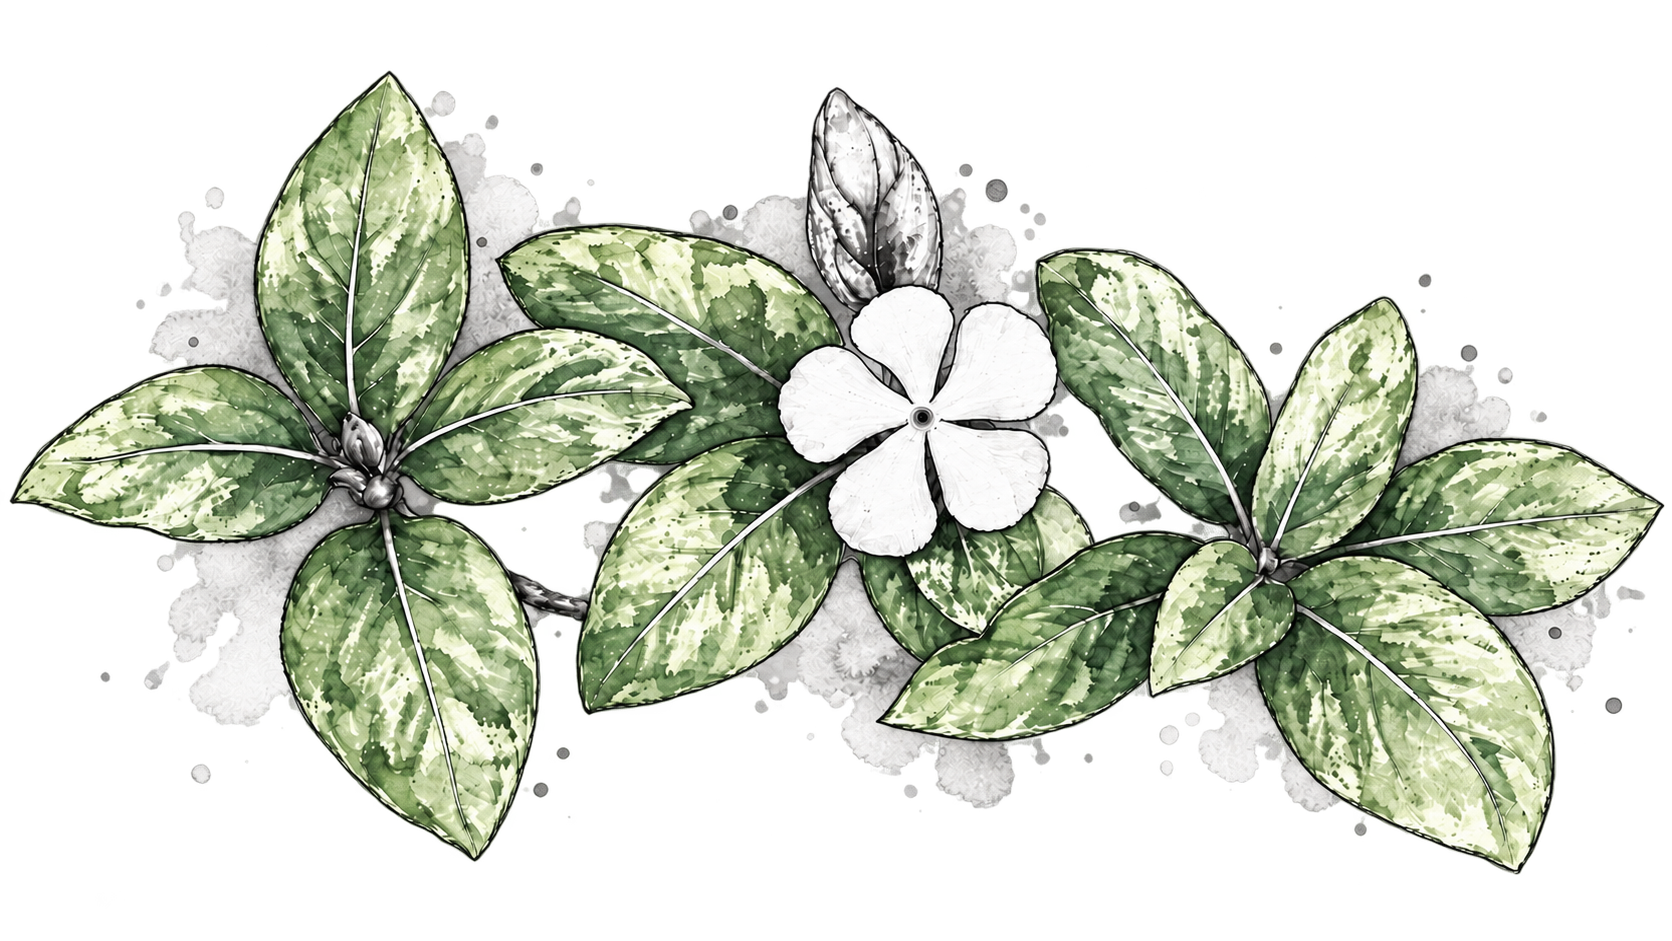
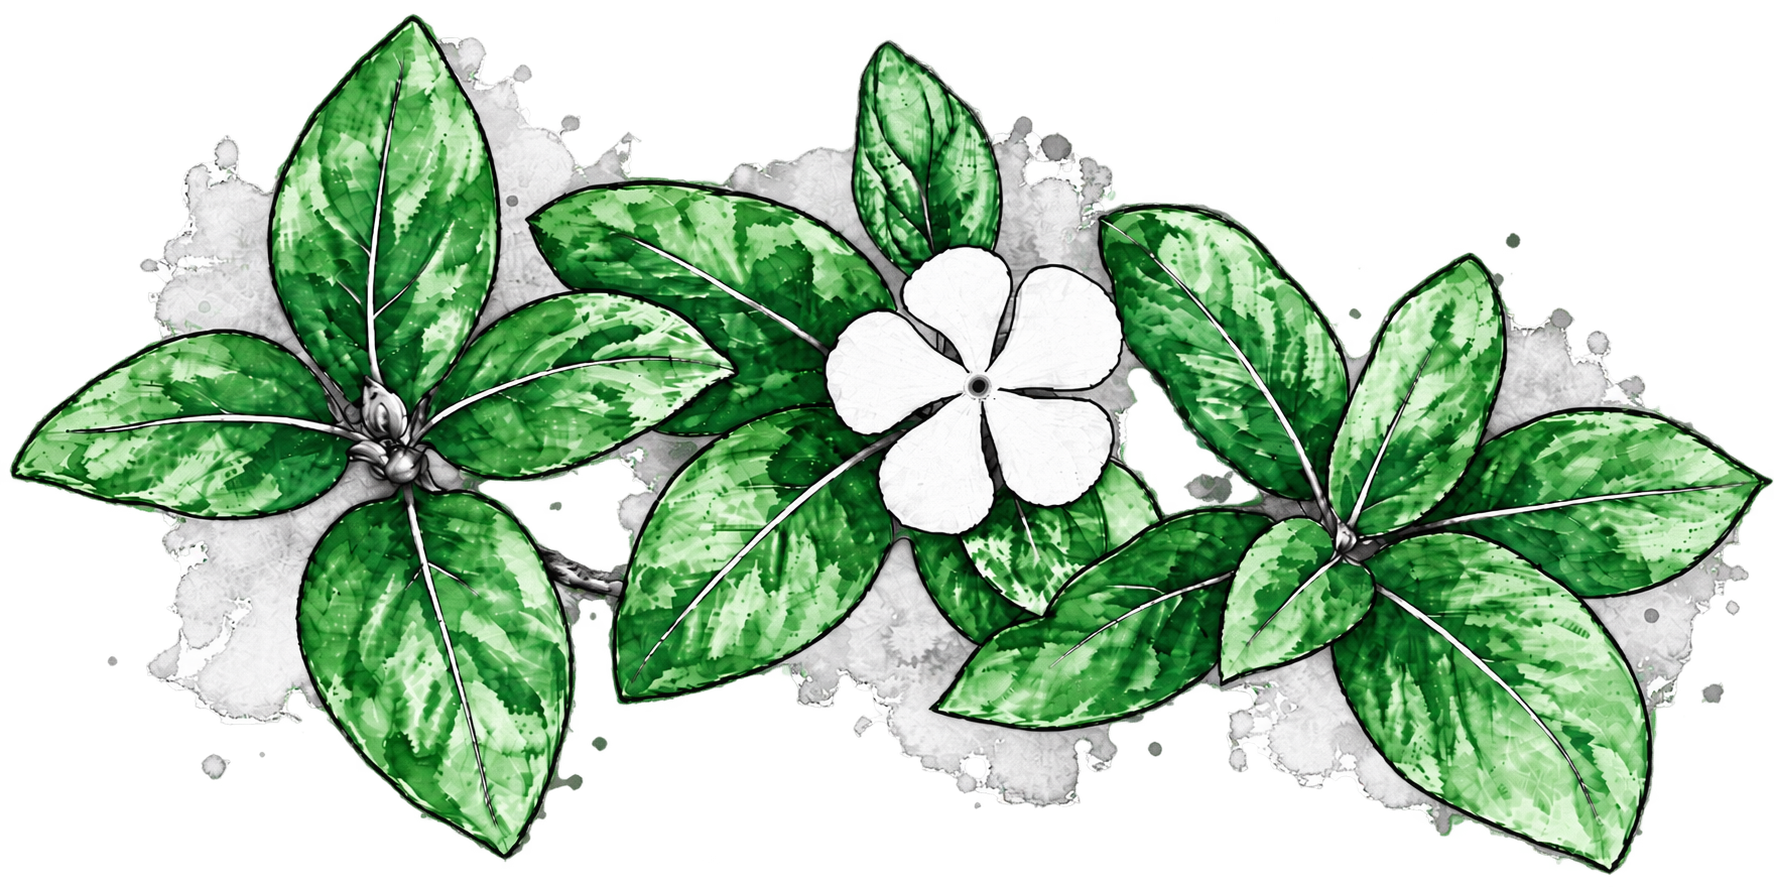
Milos BG ✿

diff --git a/app/(root)/the-background/page.tsx b/app/(root)/the-background/page.tsx
@@ -5,7 +5,7 @@ import Separator from "@/components/mbg-components/Separator";
 import Link from "next/link";
 import { buildMetadata } from "@/lib/seo";
 import Image from "next/image";
-import { MBG2 } from "@/images";
+import { BG, MBG2 } from "@/images";
 
 export const metadata = buildMetadata({
   title: "The Background",
@@ -75,69 +75,100 @@ const AboutUs = () => {
       </section>
 
       {/* Our Story */}
-      {/* Our Story */}
-      <section className="mt-10 overflow-hidden">
-        {/* Opening / Manifesto */}
-        <div className="border-y border-mbg-black/10 py-10 md:py-14">
-          <div className="mx-auto max-w-5xl">
-            <div className="grid gap-8 md:grid-cols-[180px_1fr] md:gap-12">
-              {/* Left label */}
-              <div>
-                <span className="text-[10px] font-bold uppercase tracking-[0.28em] text-mbg-green">
+      <section className="mt-10 overflow-hidden border-y border-mbg-black/10">
+        <div className="mx-auto max-w-6xl px-5 sm:px-8 lg:px-10">
+          <div className="relative grid min-h-[620px] items-center gap-10 py-12 md:grid-cols-[1.05fr_0.95fr] md:py-0 lg:min-h-[700px]">
+            {/* LEFT — CONTENT */}
+            <div className="relative z-10 max-w-2xl py-8 md:py-20">
+              {/* Small label */}
+              <div className="mb-8 flex items-center gap-4">
+                <span className="text-[10px] font-bold uppercase tracking-[0.3em] text-mbg-green">
                   Our Philosophy
                 </span>
 
-                <div className="mt-3 h-[2px] w-10 bg-mbg-green" />
+                <div className="h-px w-10 bg-mbg-green" />
               </div>
 
-              {/* Main intro */}
-              <div>
-                <p className="max-w-4xl text-xl font-semibold leading-[1.35] tracking-tight text-mbg-black sm:text-2xl md:text-3xl lg:text-4xl">
-                  Milos BG
-                  <span className="text-mbg-green">
-                    {" "}
-                    is a story of progression,
-                  </span>{" "}
-                  written one chapter at a time.
+              {/* Main title */}
+              <h2 className="max-w-xl text-[clamp(2.4rem,5vw,5.5rem)] font-semibold leading-[0.95] tracking-[-0.045em] text-mbg-black">
+                A story of
+                <span className="block text-mbg-green">progression.</span>
+              </h2>
+
+              {/* Intro */}
+              <p className="mt-8 max-w-xl text-sm leading-7 text-mbg-darkgrey md:text-[15px]">
+                Born in a modest studio, Milos BG has always stood by one
+                uncompromising principle:
+                <strong className="font-semibold text-mbg-black">
+                  {" "}
+                  quality and craftsmanship above all else.
+                </strong>
+              </p>
+
+              <p className="mt-5 max-w-xl text-sm leading-7 text-mbg-darkgrey md:text-[15px]">
+                Every piece is thoughtfully designed, tested, refined and
+                handcrafted with purpose before being released in limited
+                editions. Nothing exists simply to fill a collection.
+              </p>
+
+              {/* Mentality */}
+              <div className="mt-10 max-w-xl border-l-2 border-mbg-green pl-5">
+                <span className="text-[9px] font-bold uppercase tracking-[0.3em] text-mbg-green">
+                  The Mentality
+                </span>
+
+                <p className="mt-3 text-sm leading-7 text-mbg-black/75">
+                  Achievement is not a single moment. It is the result of what
+                  we repeatedly choose to do when nobody is watching.
                 </p>
-
-                <div className="mt-8 grid gap-5 text-[13px] leading-7 text-mbg-darkgrey md:grid-cols-2">
-                  <p>
-                    Born in a modest studio, Milos BG has always stood by one
-                    uncompromising principle:
-                    <strong className="font-semibold text-mbg-black">
-                      {" "}
-                      quality and craftsmanship above all else.
-                    </strong>
-                  </p>
-
-                  <p>
-                    Every piece is thoughtfully designed, tested, refined and
-                    handcrafted with purpose before being released in limited
-                    editions. Nothing exists simply to fill a collection.
-                  </p>
-                </div>
               </div>
+            </div>
+
+            {/* RIGHT — IMAGE */}
+            <div className="relative flex h-[440px] items-end justify-center md:h-full">
+              {/* Decorative chapter text */}
+              <span
+                aria-hidden="true"
+                className="absolute right-0 top-20 hidden text-[clamp(5rem,9vw,9rem)] font-bold uppercase leading-none tracking-[-0.08em] text-mbg-black/[0.025] lg:block"
+              >
+                GRIND
+              </span>
+
+              {/* Green detail behind image */}
+              <div className="absolute bottom-[12%] right-[12%] h-36 w-36 rounded-full bg-mbg-green/[0.06] blur-3xl md:h-60 md:w-60" />
+
+              <div className="relative h-full w-full max-w-[520px]">
+                <Image
+                  src={BG}
+                  alt="Milos BG — Basketball Court"
+                  fill
+                  priority
+                  className="object-contain object-bottom grayscale"
+                  sizes="(max-width: 768px) 100vw, 50vw"
+                />
+              </div>
+            </div>
+
+            {/* Bottom chapter marker */}
+            <div className="absolute bottom-7 left-0 hidden items-center gap-4 md:flex">
+              <span className="text-[9px] font-semibold uppercase tracking-[0.25em] text-mbg-black/35">
+                Grind
+              </span>
+
+              <span className="h-px w-8 bg-mbg-black/20" />
+
+              <span className="text-[9px] font-semibold uppercase tracking-[0.25em] text-mbg-black/35">
+                Resilience
+              </span>
+
+              <span className="h-px w-8 bg-mbg-black/20" />
+
+              <span className="text-[9px] font-semibold uppercase tracking-[0.25em] text-mbg-black/35">
+                Consistency
+              </span>
             </div>
           </div>
         </div>
-
-        {/* Philosophy statement */}
-        <div className="mx-auto max-w-5xl py-12 md:py-16">
-          <div className="max-w-3xl">
-            <span className="text-[10px] font-bold uppercase tracking-[0.28em] text-mbg-green">
-              The Mentality
-            </span>
-
-            <p className="mt-4 text-base leading-8 text-mbg-black/80 md:text-lg">
-              Milos BG was never meant to be only about clothing. The brand is
-              built around a philosophy of continuous improvement, the belief
-              that achievement is not a single moment, but the result of what we
-              repeatedly choose to do when nobody is watching.
-            </p>
-          </div>
-        </div>
-
         {/* Five Chapters */}
         <div className="border-y border-mbg-black/10 bg-mbg-black/[0.025] py-12 md:py-16">
           <div className="mx-auto max-w-5xl">
@@ -255,8 +286,6 @@ const AboutUs = () => {
                 <br />
                 become one.
               </h3>
-
-                       
             </div>
 
             <div className="space-y-6 text-[13px] leading-7 text-mbg-darkgrey">
@@ -299,10 +328,10 @@ const AboutUs = () => {
 
         {/* The unseen work */}
         <div className="border-y border-mbg-black/10 py-12 md:py-16">
- <Image
-  src={MBG2}
-  alt="Grind Until Achieve"
-  className="
+          <Image
+            src={MBG2}
+            alt="Grind Until Achieve"
+            className="
     mx-auto
     h-auto
     w-[46%]
@@ -313,7 +342,7 @@ const AboutUs = () => {
     md:w-[64%]
     lg:w-[60%]
   "
-/>
+          />
         </div>
         {/* The unseen work */}
         <div className="border-y border-mbg-black/10 py-12 md:py-16">

diff --git a/images/index.ts b/images/index.ts
@@ -9,6 +9,7 @@ import MBGBooks from "./chapters/MBG BOOKS.png";
 import MBGPeriwinkle from "./chapters/MBG - PERIWINKLE.png";
 import MBGMPeriwinkle from "./chapters/MBG - Madagascar PERIWINKLES.png";
 import MBG from "./chapters/MBG ✿.png";
+import BG from "./chapters/BG ✿.png";
 import MBG2 from "./chapters/Milos BG ✿.png";
 import spinner from "./Spinner.gif";
 
@@ -25,5 +26,6 @@ export {
   MBGPeriwinkle,
   MBGMPeriwinkle,
   MBG,
-  MBG2
+  MBG2,
+  BG
 };
